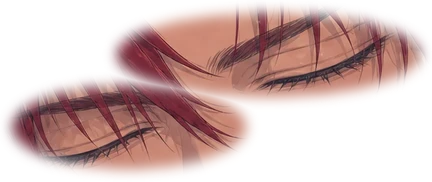
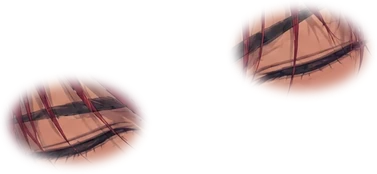
Demo21 Jin: jacket blink redrawn (Seedance; one clean lid, no ghost brow / old crease); lounge 1.05 high, jacket x 0.519 so cut edges are ≥ 1.5 % outside the frame

diff --git a/demos/for-women/Demo21_JinLounge/media/layers.js b/demos/for-women/Demo21_JinLounge/media/layers.js
@@ -17,7 +17,7 @@ window.MOHEAT_LAYERS = {
     "h": 954,
     "x": 0.51,
     "y": 1.02,
-    "height": 1.04,
+    "height": 1.05,
     "box": [
      0,
      0,
@@ -497,7 +497,7 @@ window.MOHEAT_LAYERS = {
     "src": "art/char_jacket.webp?v=745dff40",
     "w": 1700,
     "h": 963,
-    "x": 0.5,
+    "x": 0.519,
     "y": 1.02,
     "height": 1.02,
     "box": [
@@ -509,12 +509,12 @@ window.MOHEAT_LAYERS = {
    },
    "patches": [
     {
-     "src": "art/jacket_eyes.webp?v=82fff82b",
+     "src": "art/jacket_eyes.webp?v=f645f633",
      "rect": [
-      611,
-      215,
-      432,
-      182
+      630,
+      219,
+      377,
+      174
      ],
      "kind": "eyes"
     },
